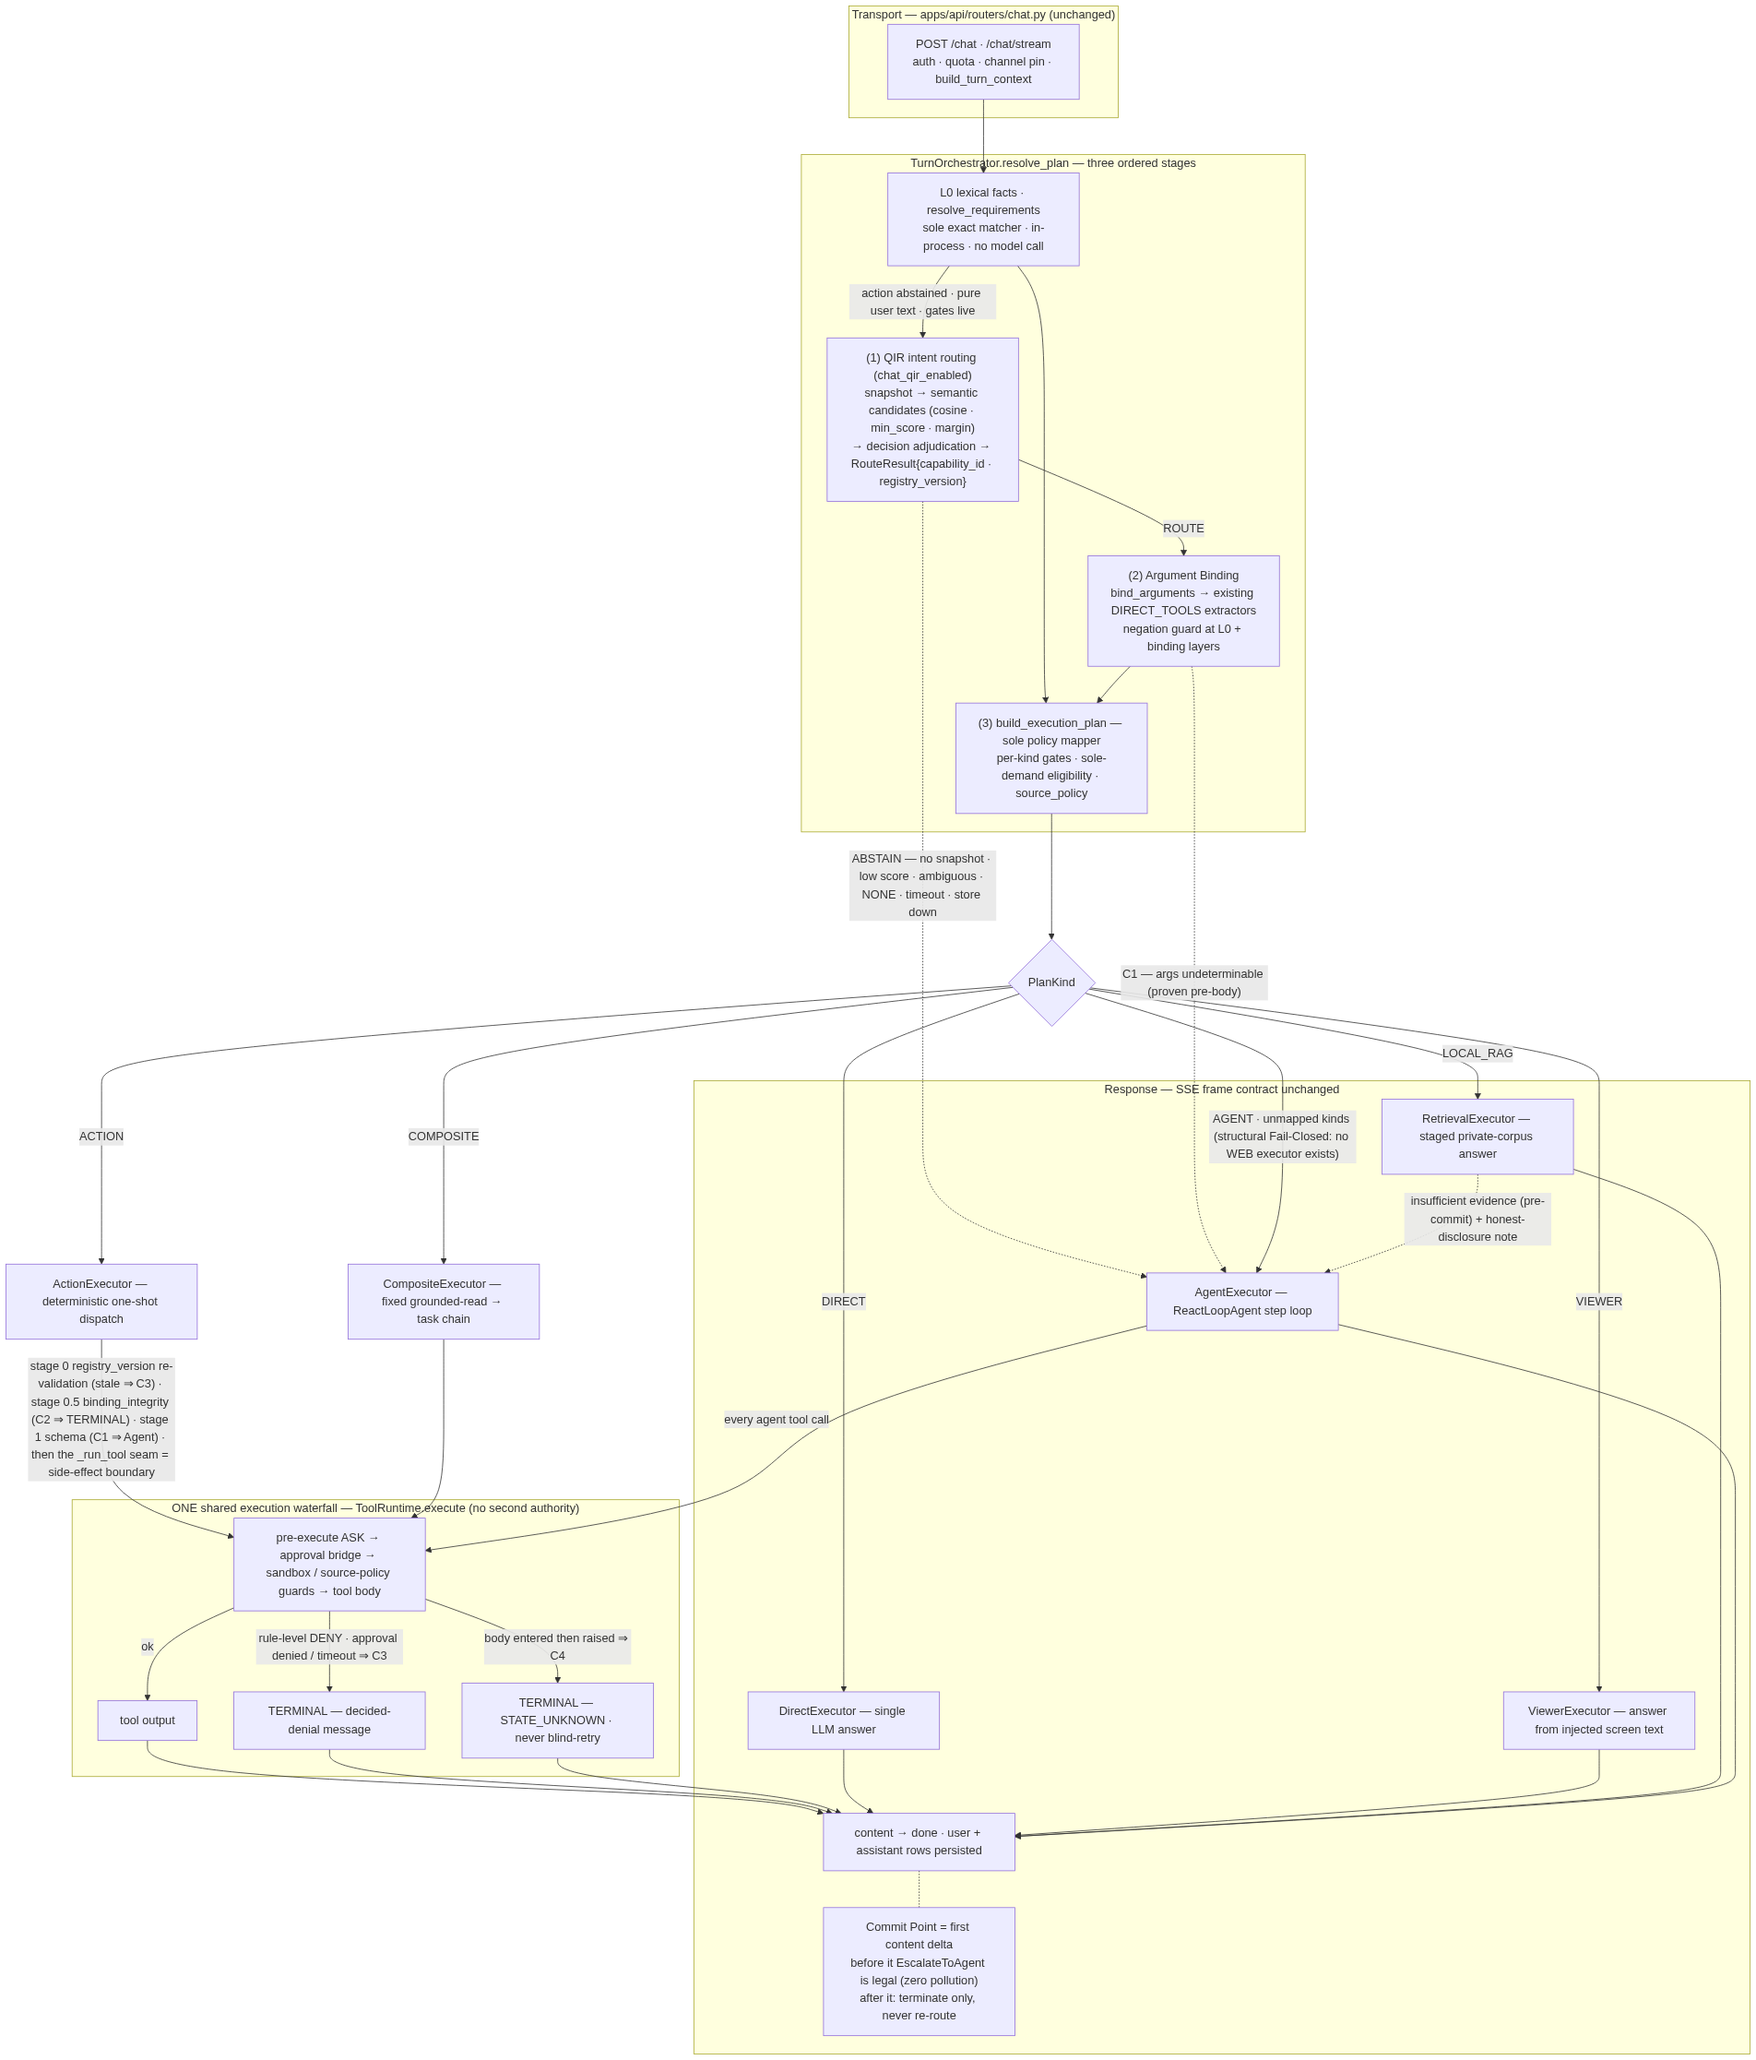
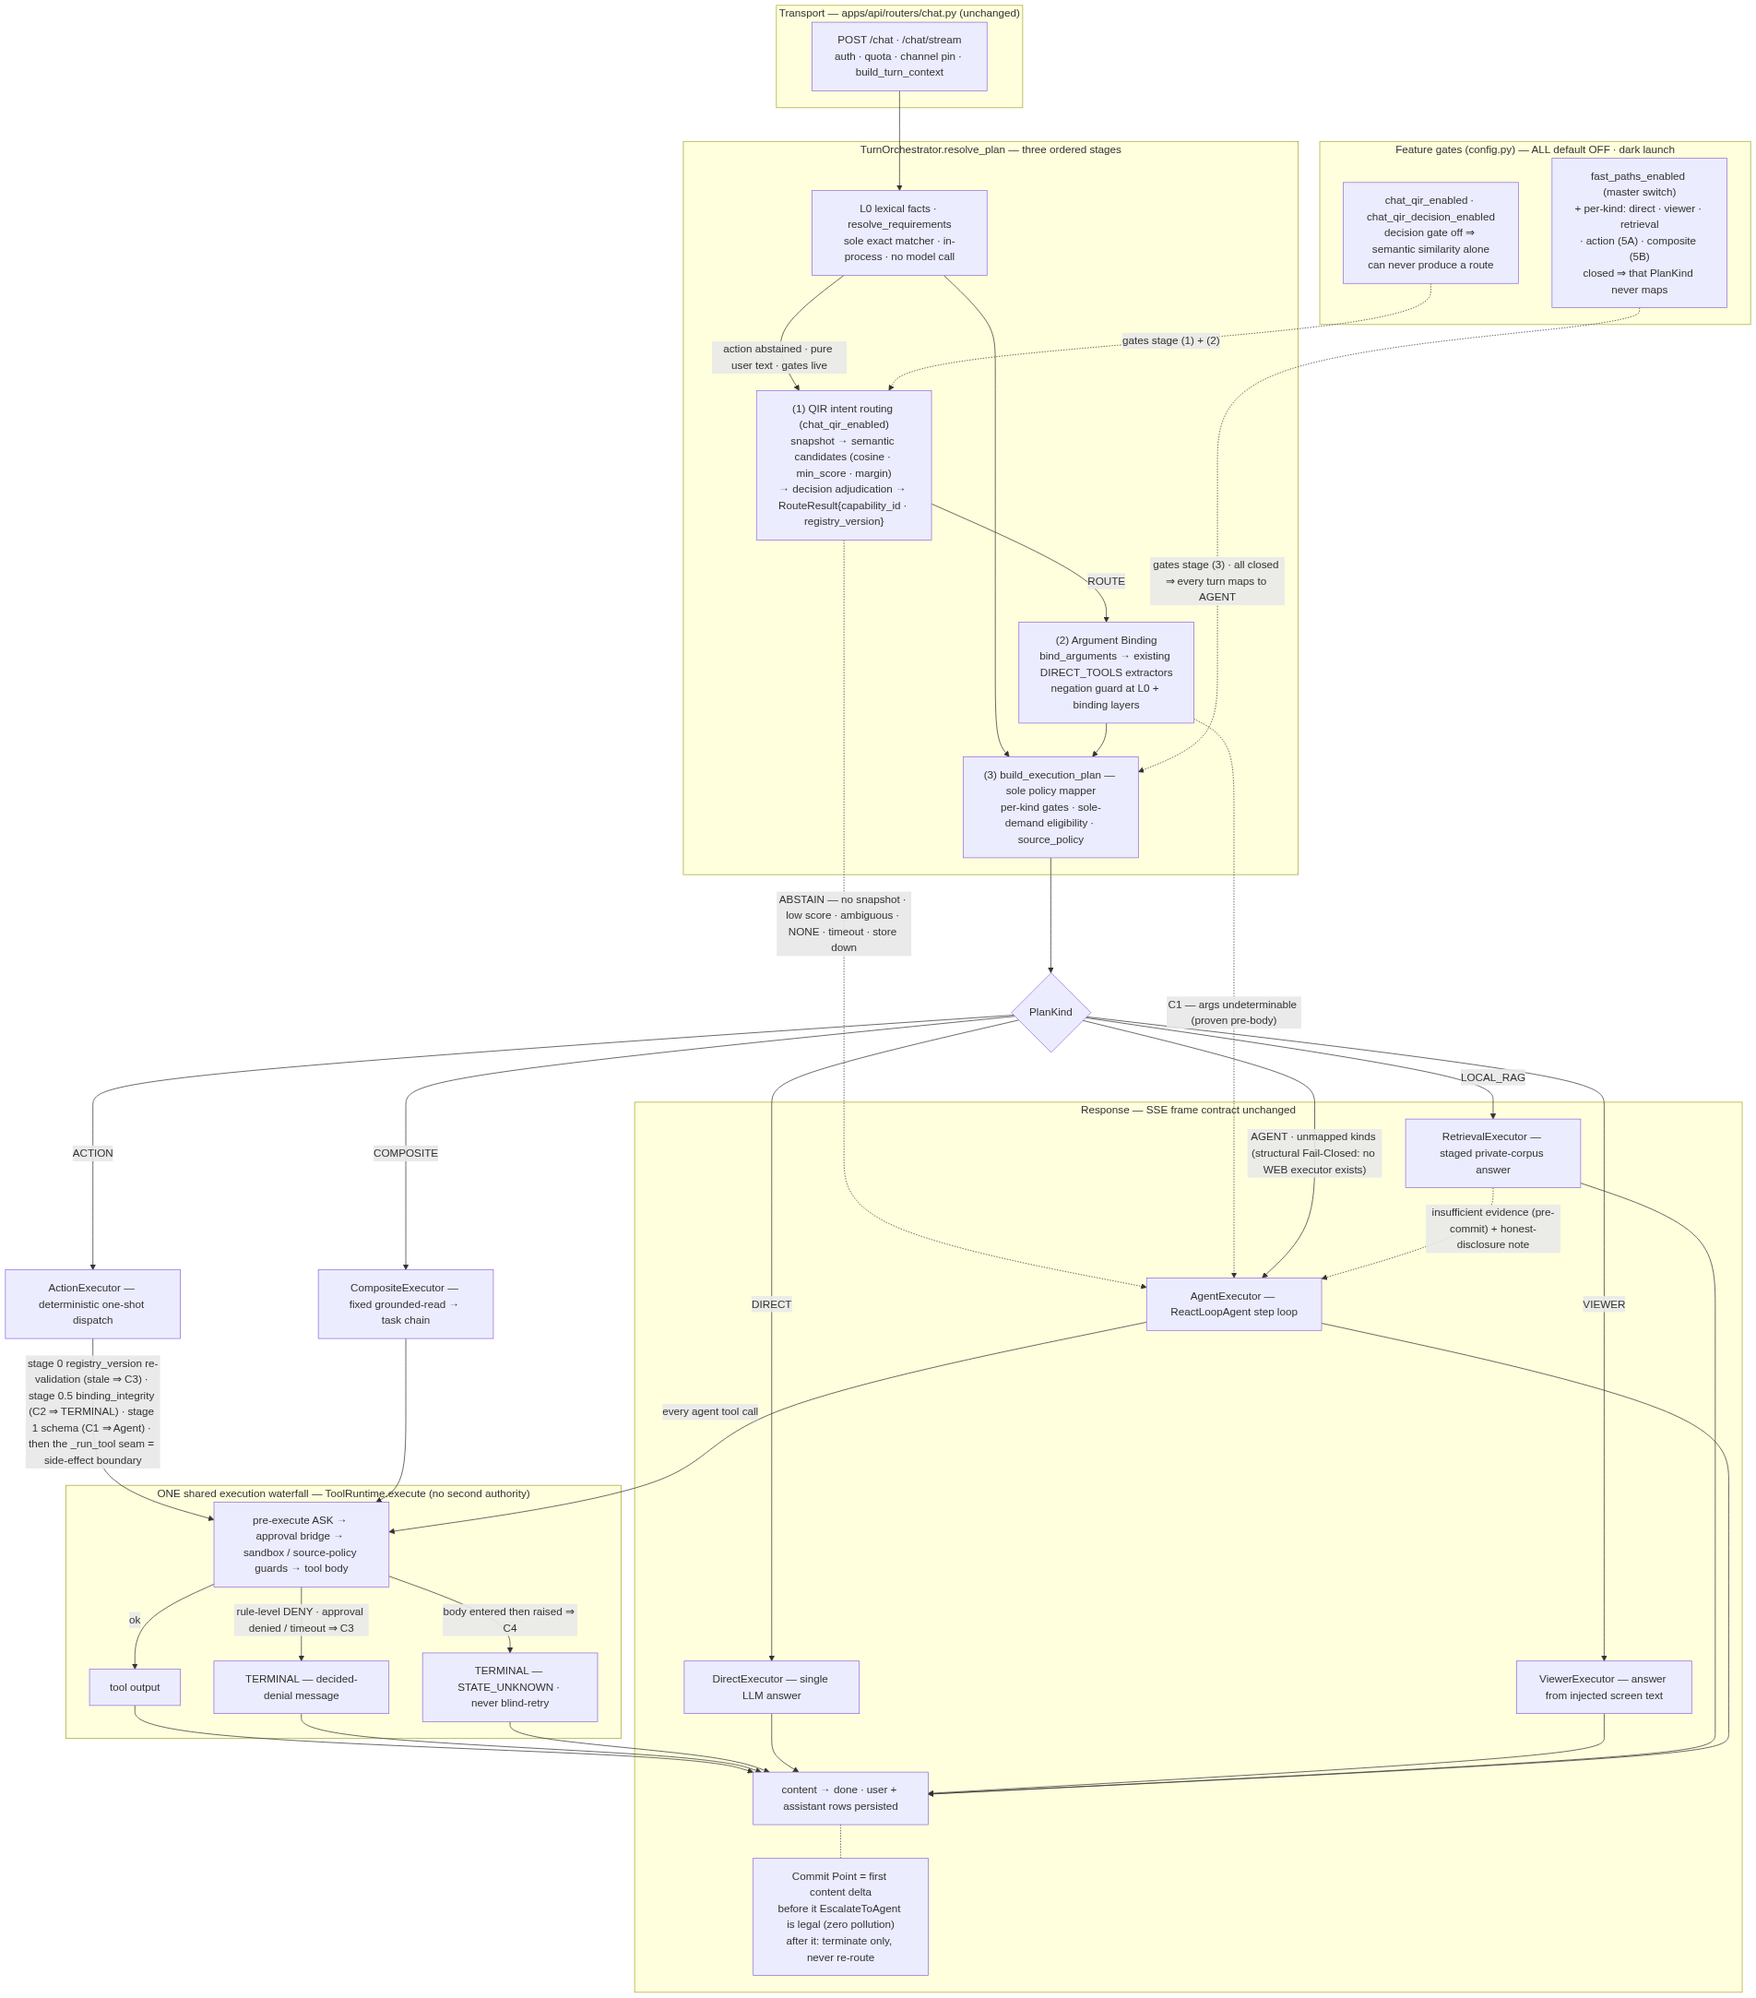
docs(diagrams): surface the feature-gate fan-out in the chat control-plane diagram
QIR + decision gates and the master fast_paths_enabled switch with its
per-kind sub-gates now render as an explicit "gates" subgraph wired into
stages (1)-(3), dark-launch default OFF stated on the box.

diff --git a/docs/architecture-diagrams.md b/docs/architecture-diagrams.md
@@ -321,6 +321,13 @@ flowchart TB
     QIR -. "ABSTAIN — no snapshot · low score · ambiguous · NONE · timeout · store down" .-> AG
     BIND -. "C1 — args undeterminable (proven pre-body)" .-> AG
 
+    subgraph gates["Feature gates (config.py) — ALL default OFF · dark launch"]
+        GQ["chat_qir_enabled · chat_qir_decision_enabled<br/>decision gate off ⇒ semantic similarity alone<br/>can never produce a route"]
+        GF["fast_paths_enabled (master switch)<br/>+ per-kind: direct · viewer · retrieval<br/>· action (5A) · composite (5B)<br/>closed ⇒ that PlanKind never maps"]
+    end
+    GQ -. "gates stage (1) + (2)" .-> QIR
+    GF -. "gates stage (3) · all closed ⇒ every turn maps to AGENT" .-> MAP
+
     MAP --> K{"PlanKind"}
     K -- DIRECT --> DEX["DirectExecutor — single LLM answer"]
     K -- VIEWER --> VEX["ViewerExecutor — answer from injected screen text"]
